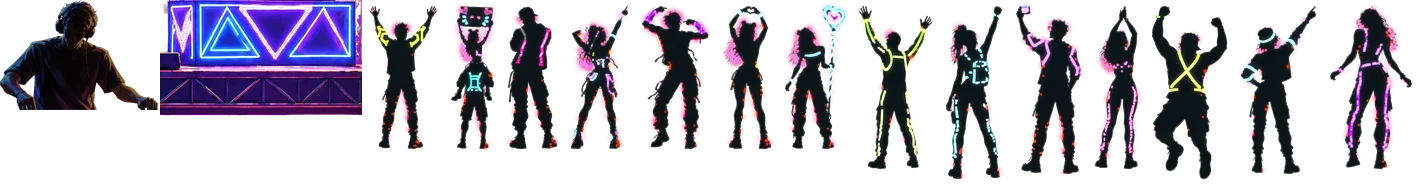
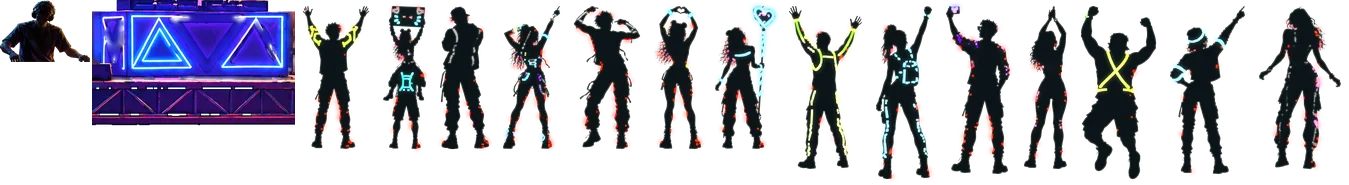
fix(bloomscroll): DJ at the stage's scale behind his decks, torch centred in its basket
The DJ was sized from the booth's width at about 1.3 m across the shoulders, so he filled the stage. He is now a
quarter of the booth's width (about 0.37 of a crowd person's height), and the booth sprite starts at the deck gear,
so the gear is drawn over his hands and he stands behind the decks.

The torch flame was placed by a guess, off to one side and above the basket. It now stands at the middle of the
basket's measured rim, on desktop and phone. The festival, glow and cast pictures are also re-cut with the shared
magenta key, so their edges carry no pink outline.

diff --git a/components/feed/BloomscrollScene.js b/components/feed/BloomscrollScene.js
@@ -54,33 +54,33 @@ const CONCERT_COLS = [[98, 168, 172], [206, 255, 29], [255, 79, 216], [138, 92, 
 const LIFE = {
   // Phone: the same pieces recomposed on the 4:5 picture; the Ferris wheel stands left of the tower, behind the tents
   phone: {
-    bulbs: [[0.9501,0.5891],[0.9165,0.591],[0.935,0.5898],[1.2199,0.5926],[0.82,0.5932],[0.8981,0.5942],[0.7411,0.5965],[0.8366,0.5949],[0.8746,0.596],[0.8884,0.5944],[0.8089,0.5957],[0.8545,0.5963],[0.7795,0.5978],[0.7959,0.5969],[0.7664,0.5975],[0.7578,0.6022],[0.7765,0.6085],[1.0672,0.6112],[1.0853,0.6106],[0.7976,0.6147],[1.039,0.6189],[0.9239,0.6187],[1.1001,0.6187],[0.821,0.6201],[1.0191,0.6227],[1.1643,0.618],[0.9451,0.6206],[0.9819,0.6188],[0.8438,0.624],[0.9636,0.6212],[1.1182,0.6236],[1.1535,0.6232],[0.9961,0.6261],[0.8687,0.6275],[0.9836,0.6236],[1.1366,0.6255],[0.9688,0.6291],[0.8946,0.6291],[0.9196,0.6299],[0.9448,0.63],[0.5907,0.6367],[0.7753,0.6617],[0.7911,0.6668],[0.8057,0.6699],[0.8199,0.672],[0.8424,0.6762],[0.9139,0.6767],[0.8851,0.6779],[0.8642,0.6788],[0.9342,0.6783],[0.8748,0.6793]],
-    fires: [[0.8078,0.8048,0.05,"bonfire"], [0.9353,0.3952,0.018,"torch"]],
+    bulbs: [[0.95,0.5892],[0.9162,0.5911],[0.9347,0.5899],[1.2201,0.5922],[0.8195,0.5933],[0.8978,0.5943],[0.8362,0.595],[0.7405,0.5966],[0.8881,0.5945],[0.8541,0.5964],[0.8742,0.5961],[0.8084,0.5958],[0.7953,0.597],[0.7658,0.5976],[0.7789,0.5979],[0.7572,0.6023],[0.7759,0.6086],[1.0672,0.6113],[1.0854,0.6107],[0.7971,0.6148],[1.039,0.619],[0.9236,0.6188],[0.8205,0.6203],[1.1002,0.6188],[1.0191,0.6228],[1.1645,0.6181],[0.9449,0.6207],[0.9818,0.6189],[0.8433,0.6242],[1.1184,0.6238],[0.9634,0.6214],[1.1538,0.6234],[0.8684,0.6277],[0.996,0.6263],[0.9835,0.6238],[1.1368,0.6257],[0.8943,0.6293],[0.9686,0.6293],[0.9446,0.6302],[0.9193,0.6301],[0.7747,0.6619],[0.7906,0.6671],[0.8052,0.6702],[0.8194,0.6722],[0.8419,0.6765],[0.9137,0.677],[0.8848,0.6781],[0.9339,0.6786],[0.8638,0.6791],[0.8744,0.6796]],
+    fires: [[0.8078,0.8048,0.05,"bonfire"], [0.9174,0.4015,0.018,"torch"]],
     wheel: [0.8,0.5,0.094],
-    hoops: [[0.8757,0.731,0.0383],[0.979,0.7338,0.0462]],
+    hoops: [[0.8757,0.7305,0.0385],[0.9792,0.7336,0.0464]],
     cast: {
-      dj: [0.1637,0.6317,0.0961,0.0537], booth: [0.1502,0.6818,0.123,0.0581],
-      people: [[2,0,0.101,0.7836,0.0962,0.3],[3,0,0.143,0.7837,0.0963,2.0],[4,0,0.185,0.7836,0.0963,3.7],[5,0,0.227,0.7837,0.0963,5.4],[6,0,0.269,0.7837,0.0963,7.1],[7,0,0.311,0.7837,0.0963,8.8],[8,0,0.353,0.7837,0.0963,10.5],[9,1,0.08,0.8044,0.1087,1.1],[10,1,0.129,0.8065,0.1149,3.4],[11,1,0.178,0.8044,0.1118,5.7],[12,1,0.227,0.8066,0.1088,8.0],[13,1,0.276,0.8044,0.115,10.3],[14,1,0.325,0.8066,0.1119,12.6],[15,1,0.374,0.8045,0.1087,14.9]],
-      sheet: [[0.0,0.09075,0.46452],[0.0925,0.11606,0.50323],[0.2103,0.05846,0.83871],[0.27051,0.04101,0.83871],[0.31326,0.04625,0.83871],[0.36126,0.05148,0.83871],[0.41449,0.05846,0.83871],[0.47469,0.04538,0.83871],[0.52182,0.0541,0.83871],[0.57766,0.06283,0.94194],[0.64223,0.05061,1.0],[0.69459,0.05672,0.97419],[0.75305,0.04188,0.94194],[0.79668,0.06457,1.0],[0.863,0.06457,0.97419],[0.92932,0.06894,0.94194]],
+      dj: [0.1847,0.6483,0.0548,0.0305], booth: [0.1504,0.6764,0.1232,0.0633],
+      people: [[2,0,0.101,0.7836,0.0963,0.3],[3,0,0.143,0.7836,0.0962,2.0],[4,0,0.185,0.7837,0.0963,3.7],[5,0,0.227,0.7837,0.0963,5.4],[6,0,0.269,0.7837,0.0963,7.1],[7,0,0.311,0.7837,0.0963,8.8],[8,0,0.353,0.7837,0.0963,10.5],[9,1,0.08,0.8044,0.1087,1.1],[10,1,0.129,0.8065,0.115,3.4],[11,1,0.178,0.8044,0.1119,5.7],[12,1,0.227,0.8066,0.1088,8.0],[13,1,0.276,0.8045,0.115,10.3],[14,1,0.325,0.8065,0.1118,12.6],[15,1,0.374,0.8045,0.1088,14.9]],
+      sheet: [[0.0,0.05369,0.26452],[0.05551,0.12193,0.54839],[0.17925,0.06096,0.83871],[0.24204,0.04277,0.83871],[0.28662,0.04823,0.83871],[0.33667,0.05369,0.83871],[0.39217,0.06096,0.83871],[0.45496,0.04641,0.83871],[0.50318,0.05551,0.83871],[0.56051,0.06551,0.94194],[0.62784,0.05278,1.0],[0.68244,0.05914,0.97419],[0.7434,0.04277,0.94194],[0.78799,0.06733,1.0],[0.85714,0.06733,0.97419],[0.9263,0.07188,0.94194]],
     },
     rig: {
-      heads: [[0.0858,0.6124],[0.1388,0.6064],[0.1814,0.5953],[0.1885,0.6168],[0.2239,0.6185],[0.2577,0.6216],[0.2758,0.5991],[0.3112,0.6116]], wall: [0.0522,0.5919,0.3456,0.6847], floor: 0.7004, panel: [0.1545,0.2689,0.6818,0.7153],
+      heads: [[0.0855,0.6124],[0.1387,0.6062],[0.1814,0.5952],[0.1883,0.6167],[0.224,0.6184],[0.2578,0.6215],[0.276,0.599],[0.3114,0.6115]], wall: [0.0522,0.5918,0.3456,0.6845], floor: 0.7003, panel: [0.1548,0.2693,0.6821,0.7156],
       clip: [0.0,0.523,0.422,0.84], size: 1, beam: 0.2,
     },
   },
   // Desktop and tablet: the Ferris wheel stands right of the tower, behind the big tent (owner decision, 2026-10-25)
   wide: {
-    bulbs: [[0.7696,0.5454],[0.752,0.5483],[0.7617,0.5464],[0.9106,0.5507],[0.7016,0.5517],[0.7424,0.5532],[0.6604,0.5567],[0.7103,0.5542],[0.7301,0.5559],[0.7373,0.5535],[0.6958,0.5555],[0.7196,0.5564],[0.6804,0.5587],[0.689,0.5572],[0.6736,0.5582],[0.6691,0.5654],[0.6788,0.575],[0.8307,0.5792],[0.8402,0.5782],[0.6899,0.5845],[0.816,0.5909],[0.7559,0.5906],[0.848,0.5905],[0.7021,0.5928],[0.8056,0.5967],[0.8815,0.5895],[0.7669,0.5935],[0.7862,0.5907],[0.714,0.5988],[0.7766,0.5945],[0.8574,0.5981],[0.8759,0.5975],[0.7936,0.602],[0.7271,0.604],[0.7871,0.5981],[0.867,0.6011],[0.7793,0.6065],[0.7406,0.6065],[0.7536,0.6077],[0.7668,0.6079],[0.5817,0.6181],[0.6782,0.6562],[0.6865,0.6641],[0.6941,0.6688],[0.7015,0.672],[0.7133,0.6785],[0.7507,0.6793],[0.7356,0.681],[0.7247,0.6824],[0.7612,0.6817],[0.7302,0.6832]],
-    fires: [[0.8315,0.7951,0.024,"bonfire"], [0.7618,0.2492,0.014,"torch"]],
+    bulbs: [[0.7695,0.5455],[0.7519,0.5485],[0.7615,0.5465],[0.9107,0.5502],[0.7013,0.5519],[0.7423,0.5533],[0.71,0.5544],[0.66,0.5569],[0.7372,0.5537],[0.7194,0.5566],[0.7299,0.5561],[0.6955,0.5556],[0.6887,0.5574],[0.6732,0.5583],[0.6801,0.5589],[0.6688,0.5656],[0.6785,0.5752],[0.8308,0.5794],[0.8403,0.5784],[0.6896,0.5847],[0.816,0.5911],[0.7557,0.5908],[0.7018,0.593],[0.848,0.5908],[0.8056,0.5969],[0.8816,0.5897],[0.7668,0.5937],[0.7861,0.5909],[0.7138,0.599],[0.8575,0.5984],[0.7765,0.5947],[0.876,0.5977],[0.7269,0.6043],[0.7936,0.6022],[0.787,0.5984],[0.8671,0.6013],[0.7404,0.6068],[0.7793,0.6068],[0.7667,0.6082],[0.7535,0.608],[0.6779,0.6566],[0.6862,0.6645],[0.6938,0.6692],[0.7013,0.6724],[0.713,0.6789],[0.7505,0.6797],[0.7354,0.6814],[0.7611,0.6821],[0.7245,0.6829],[0.73,0.6836]],
+    fires: [[0.8315,0.7951,0.024,"bonfire"], [0.7525,0.2587,0.014,"torch"]],
     wheel: [0.885,0.45,0.045],
-    hoops: [[0.883,0.6314,0.029],[0.9613,0.6376,0.035]],
+    hoops: [[0.883,0.6303,0.0292],[0.9614,0.6371,0.0352]],
     cast: {
-      dj: [0.1442,0.451,0.0773,0.1264], booth: [0.1333,0.5726,0.099,0.1367],
-      people: [[2,0,0.1522,0.7974,0.1716,0.3],[3,0,0.1786,0.7974,0.1716,2.0],[4,0,0.2051,0.7975,0.1717,3.7],[5,0,0.2315,0.7974,0.1716,5.4],[6,0,0.2579,0.7974,0.1715,7.1],[7,0,0.2844,0.7975,0.1717,8.8],[8,0,0.3108,0.7974,0.1715,10.5],[9,1,0.139,0.8445,0.1951,1.1],[10,1,0.1698,0.8484,0.2069,3.4],[11,1,0.2007,0.8445,0.201,5.7],[12,1,0.2315,0.8484,0.1952,8.0],[13,1,0.2623,0.8444,0.2068,10.3],[14,1,0.2932,0.8484,0.201,12.6],[15,1,0.324,0.8444,0.195,14.9]],
-      sheet: [[0.0,0.11943,0.61003],[0.12018,0.15268,0.66017],[0.27362,0.0548,0.83008],[0.32918,0.03704,0.83008],[0.36697,0.04195,0.83008],[0.40967,0.048,0.83008],[0.45843,0.0548,0.83008],[0.51398,0.04119,0.83008],[0.55593,0.04989,0.83008],[0.60658,0.06009,0.9415],[0.66742,0.04724,1.0],[0.71542,0.05367,0.97214],[0.76984,0.03741,0.9415],[0.80801,0.0616,1.0],[0.87037,0.0616,0.97214],[0.93273,0.06652,0.9415]],
+      dj: [0.1611,0.4939,0.0441,0.0717], booth: [0.1335,0.56,0.0991,0.149],
+      people: [[2,0,0.1522,0.7974,0.1716,0.3],[3,0,0.1786,0.7975,0.1716,2.0],[4,0,0.2051,0.7974,0.1714,3.7],[5,0,0.2315,0.7974,0.1716,5.4],[6,0,0.2579,0.7974,0.1716,7.1],[7,0,0.2844,0.7975,0.1717,8.8],[8,0,0.3108,0.7974,0.1715,10.5],[9,1,0.139,0.8445,0.1951,1.1],[10,1,0.1698,0.8484,0.2069,3.4],[11,1,0.2007,0.8445,0.201,5.7],[12,1,0.2315,0.8484,0.1952,8.0],[13,1,0.2623,0.8444,0.2068,10.3],[14,1,0.2932,0.8484,0.201,12.6],[15,1,0.324,0.8445,0.1951,14.9]],
+      sheet: [[0.0,0.07191,0.3454],[0.07271,0.16181,0.71866],[0.23532,0.05793,0.83008],[0.29405,0.03875,0.83008],[0.3336,0.04395,0.83008],[0.37835,0.05074,0.83008],[0.42988,0.05793,0.83008],[0.48861,0.04275,0.83008],[0.53216,0.05234,0.83008],[0.5853,0.06352,0.9415],[0.64962,0.04994,1.0],[0.70036,0.05633,0.97214],[0.75749,0.03915,0.9415],[0.79744,0.06512,1.0],[0.86336,0.06512,0.97214],[0.92928,0.06992,0.9415]],
     },
     rig: {
-      heads: [[0.0815,0.4094],[0.1241,0.3952],[0.1584,0.3693],[0.1641,0.4197],[0.1926,0.4237],[0.2198,0.431],[0.2344,0.3782],[0.2628,0.4076]], wall: [0.0545,0.3611,0.2905,0.5793], floor: 0.6165, panel: [0.1368,0.2288,0.5726,0.6514],
+      heads: [[0.0813,0.4093],[0.124,0.3948],[0.1584,0.3688],[0.164,0.4195],[0.1927,0.4234],[0.2199,0.4307],[0.2345,0.3778],[0.263,0.4072]], wall: [0.0545,0.361,0.2905,0.579], floor: 0.6161, panel: [0.137,0.2292,0.5732,0.6521],
       clip: [0.0,0.225,0.36,0.881], size: 0.81, beam: 0.45,
     },
   },

diff --git a/docs/bloomscroll-scene.md b/docs/bloomscroll-scene.md
@@ -58,7 +58,7 @@ The Bloomscroll page (`/feed`) opens with an animated festival scene: the visito
 | Turning wheel (every screen) | centre (0.816, 0.493), radius 0.094 W, one turn per `9000·2π` ms, 12 gondolas, 24 rim bulbs, behind the tents |
 | Phone festival | portrait concert painting, split at **55.5 %**; left group set down **8 %**, right group **4 %** of the scene height |
 | Concert (every screen) | **124 bpm**; colours teal (98, 168, 172), chartreuse (206, 255, 29), magenta (255, 79, 216), violet (138, 92, 255), warm white (255, 238, 205), changing every 8 beats; beams, LED panel pulse (the painted panel itself, tinted, so only its LED lines glow), strobe every 16 beats (a soft burst). The stage lights are drawn on their own canvas with faded edges, so no flash ever shows a box. |
-| DJ and crowd (owner decision, 2026-10-25) | drawn from the cast sheet in the festival's coordinates. DJ: a dark silhouette behind the booth, nodding on the beat (`|sin(beat·π)|³ · 3.5 %` of his height) and swaying (`sin(beat/4 · 2π) · 0.025 rad`), the booth's front drawn over him. Back rows (7): sway from the feet (`sin((beat/2 + seed)·π) · 0.045 rad`) and bob 1.5 %, at 82 % brightness. Front row (7): hop on the beat, some every beat and some every other, each with its own phase and a height of 5–8 % of themselves. Phones: the crowd stands lower and a little smaller (feet 0.80, height 0.104) so the DJ and booth stay in view. Reduced motion: everyone at rest. |
+| DJ and crowd (owner decision, 2026-10-25) | drawn from the cast sheet in the festival's coordinates. DJ: a dark silhouette at the stage's own scale (shoulders about a quarter of the booth's width), standing behind his decks with his hands on them, nodding on the beat (`|sin(beat·π)|³ · 3.5 %` of his height) and swaying (`sin(beat/4 · 2π) · 0.025 rad`), the booth's front and the deck gear on it drawn over him. Back rows (7): sway from the feet (`sin((beat/2 + seed)·π) · 0.045 rad`) and bob 1.5 %, at 82 % brightness. Front row (7): hop on the beat, some every beat and some every other, each with its own phase and a height of 5–8 % of themselves. Phones: the crowd stands lower and a little smaller (feet 0.80, height 0.104) so the DJ and booth stay in view. Reduced motion: everyone at rest. |
 | Bottom fade | desktop and tablet 14 % of the scene height; phone 30 % |
 | Reduced motion | everything still: moon up, lights on, no unfold, no hop, wheel still |
 | Walk-in on phones | counts from the first pixel of scroll, so the scene moves straight away |

diff --git a/docs/bloomscroll-assets.md b/docs/bloomscroll-assets.md
@@ -25,7 +25,7 @@ All files are in `public/images/bloomscroll/`.
 | `far-cut-blur.webp` / `p-far-cut-blur.webp` | Soft-focus copy of the far painting | wide / phone | as above | | transparent | No: rebuilt from 01/02 |
 | `festival-wide.webp` / `festival-wide@2x.webp` | Wide festival built from the owner's solo pieces: stage (no DJ), tents and tower, bonfire group | desktop, tablet | 2000×849 / 4096×1738 | 33:14 | transparent | No: rebuilt by `build_festival.py` |
 | `glow-wide.webp` | Soft light glow (screen blend) | desktop, tablet | 1000×424 | 33:14 | opaque on black | No: rebuilt by `build_festival.py` |
-| `cast-wide.webp` / `cast-wide@2x.webp` | The DJ, the booth front drawn over him and the 14 crowd people (silhouette pass, neon glow), side by side | desktop, tablet | people 170 / 340 px tall | sheet | transparent | No: rebuilt by `build_festival.py` |
+| `cast-wide.webp` / `cast-wide@2x.webp` | The DJ, the booth front with its deck gear (drawn over him) and the 14 crowd people (silhouette pass, neon glow), side by side | desktop, tablet | people 170 / 340 px tall | sheet | transparent | No: rebuilt by `build_festival.py` |
 | `festival-phone.webp` | Phone festival, the same pieces recomposed on the 4:5 picture | phone | 900×1117 | 0.806 | transparent | No: rebuilt by `build_festival.py` |
 | `glow-phone.webp` | Phone light glow | phone | 450×558 | 0.806 | opaque on black | No: rebuilt by `build_festival.py` |
 | `cast-phone.webp` | The DJ, the booth front and the crowd at phone size | phone | people 140 px tall | sheet | transparent | No: rebuilt by `build_festival.py` |
